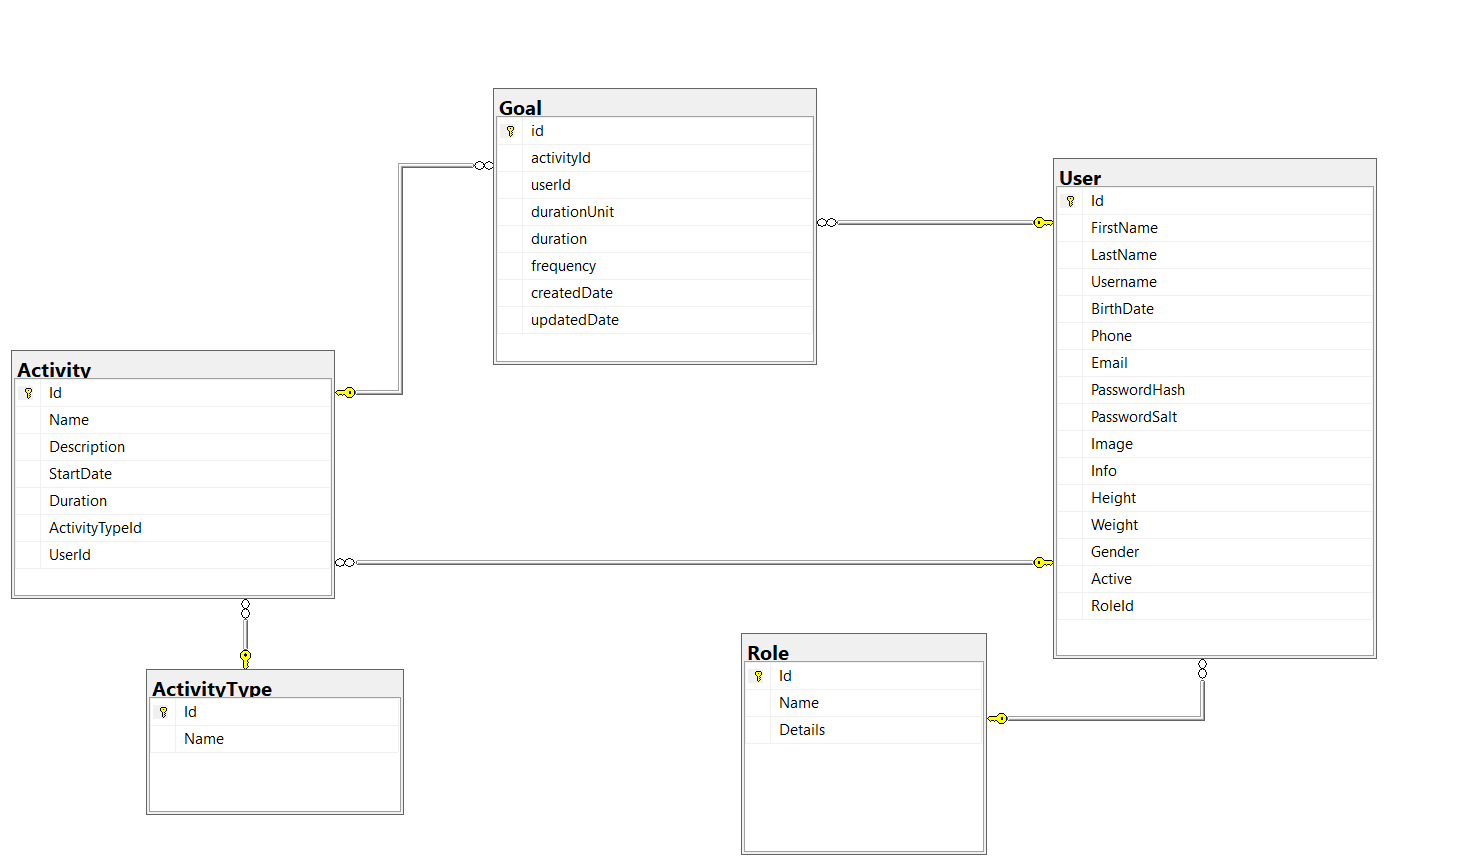
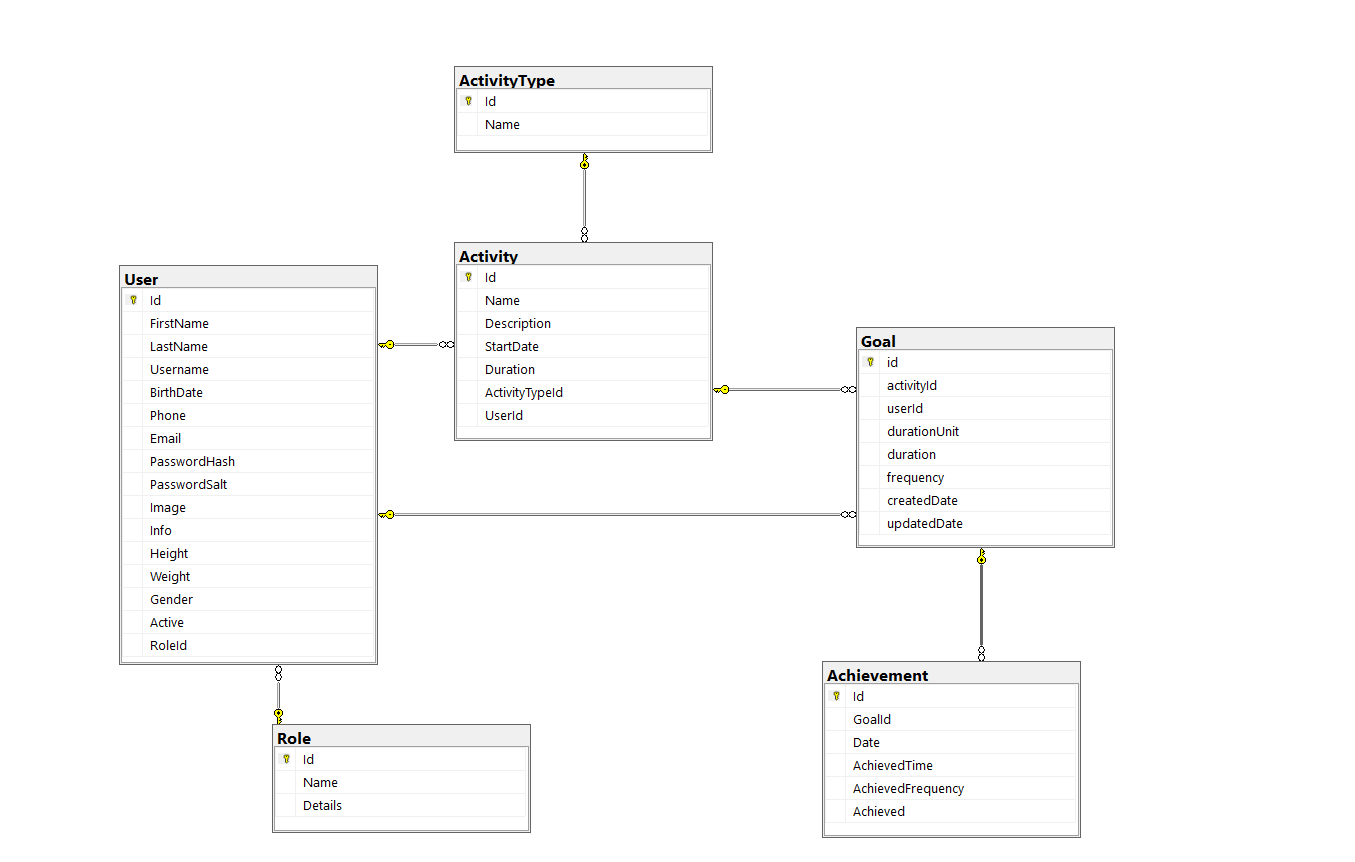
Added screenshots, achievments crud operation/base crud fix

diff --git a/FitTrackApp.UI/src/app/app-routing.module.ts b/FitTrackApp.UI/src/app/app-routing.module.ts
@@ -10,6 +10,7 @@ import { LoginPageComponent } from './login-page/login-page.component';
 import { GoalAddPageComponent } from './goal-add-page/goal-add-page.component';
 import { ActivityEditPageComponent } from './activity-edit-page/activity-edit-page.component';
 import { GoalEditPageComponent } from './goal-edit-page/goal-edit-page.component';
+import { AchievmentTablePageComponent } from './achievment-table-page/achievment-table-page.component';
 
 const routes: Routes = [
   { path: '', redirectTo: '/home', pathMatch: 'full' },
@@ -22,6 +23,7 @@ const routes: Routes = [
   { path: 'goals', component: GoalTablePageComponent },
   { path: 'goal-add', component: GoalAddPageComponent },
   { path: 'goal-edit/:id', component: GoalEditPageComponent },
+  { path: 'achievments', component: AchievmentTablePageComponent },
   { path: 'logout', component: HomePageComponent },
   { path: 'login', component: LoginPageComponent },
 

diff --git a/FitTrackApp.UI/src/app/app.module.ts b/FitTrackApp.UI/src/app/app.module.ts
@@ -18,6 +18,7 @@ import { GoalAddPageComponent } from './goal-add-page/goal-add-page.component';
 import { ActivityEditPageComponent } from './activity-edit-page/activity-edit-page.component';
 import { GoalEditPageComponent } from './goal-edit-page/goal-edit-page.component';
 import { PopupMessageComponent } from './popup-message/popup-message.component';
+import { AchievmentTablePageComponent } from './achievment-table-page/achievment-table-page.component';
 
 @NgModule({
   declarations: [
@@ -32,7 +33,8 @@ import { PopupMessageComponent } from './popup-message/popup-message.component';
     LoginPageComponent,
     ActivityEditPageComponent,
     GoalEditPageComponent,
-    PopupMessageComponent    
+    PopupMessageComponent,
+    AchievmentTablePageComponent    
   ],
   imports: [
     BrowserModule,

diff --git a/FitTrackApp.UI/src/app/achievment-table-page/achievment-table-page.component.spec.ts b/FitTrackApp.UI/src/app/achievment-table-page/achievment-table-page.component.spec.ts
@@ -1,0 +1,23 @@
+import { ComponentFixture, TestBed } from '@angular/core/testing';
+
+import { AchievmentTablePageComponent } from './achievment-table-page.component';
+
+describe('AchievmentTablePageComponent', () => {
+  let component: AchievmentTablePageComponent;
+  let fixture: ComponentFixture<AchievmentTablePageComponent>;
+
+  beforeEach(async () => {
+    await TestBed.configureTestingModule({
+      declarations: [AchievmentTablePageComponent]
+    })
+    .compileComponents();
+    
+    fixture = TestBed.createComponent(AchievmentTablePageComponent);
+    component = fixture.componentInstance;
+    fixture.detectChanges();
+  });
+
+  it('should create', () => {
+    expect(component).toBeTruthy();
+  });
+});

diff --git a/FitTrackApp.UI/src/app/navigation-header/navigation-header.component.html b/FitTrackApp.UI/src/app/navigation-header/navigation-header.component.html
@@ -7,7 +7,7 @@
             <ul>
                 <span class="left-align">
                     <li><a href="#" routerLink="/" class="menu-item">Home</a></li>
-                    <ng-container *ngIf="!authService.isLoggedIn()">
+                    <ng-container *ngIf="authService.isLoggedIn()">
                         <li><a routerLink="/login" routerLinkActive="active">Login</a></li>
                     </ng-container>
                     <ng-container *ngIf="!authService.isLoggedIn()">

diff --git a/FitTrackApp.UI/src/app/goal-table-page/goal-table-page.component.css b/FitTrackApp.UI/src/app/goal-table-page/goal-table-page.component.css
@@ -6,11 +6,23 @@
   max-width: 1200px;
   margin: auto;
   margin-top: 20px;
+  position: relative;
 }
 
 h4 {
   text-align: center;
   margin-bottom: 20px;
+}
+
+.achievments-button {
+  background-color: #474343; 
+  border-color: #100f0f;
+  color:white;
+  padding: 0.25em 0.5em;
+  border-radius: 5px;
+  cursor: pointer;
+  font-size: 0.9em;
+  bottom: 3px; 
 }
 
 .btn-primary {

diff --git a/FitTrackApp.UI/src/app/achievment-table-page/achievment-table-page.component.ts b/FitTrackApp.UI/src/app/achievment-table-page/achievment-table-page.component.ts
@@ -1,0 +1,10 @@
+import { Component } from '@angular/core';
+
+@Component({
+  selector: 'app-achievment-table-page',
+  templateUrl: './achievment-table-page.component.html',
+  styleUrl: './achievment-table-page.component.css'
+})
+export class AchievmentTablePageComponent {
+
+}

diff --git a/FitTrackApp.UI/src/app/goal-table-page/goal-table-page.component.ts b/FitTrackApp.UI/src/app/goal-table-page/goal-table-page.component.ts
@@ -65,4 +65,8 @@ export class GoalTablePageComponent implements OnInit {
       );
     }
   }
+
+  viewAchievments(): void {
+    this.router.navigate(['/achievments']);
+  }
 }

diff --git a/FitTrackApp.UI/src/app/goal-table-page/goal-table-page.component.html b/FitTrackApp.UI/src/app/goal-table-page/goal-table-page.component.html
@@ -27,5 +27,6 @@
         </tr>
       </tbody>
     </table>
+    <button class="achievments-button" (click)="viewAchievments()">View achievments</button>
   </div>
   

diff --git a/FitTrackApp.UI/src/app/models/achievment.ts b/FitTrackApp.UI/src/app/models/achievment.ts
@@ -1,0 +1,5 @@
+
+export interface Achievment {
+    id: number;
+
+  }

diff --git a/FitTrackApp.UI/src/app/achievment-table-page/achievment-table-page.component.html b/FitTrackApp.UI/src/app/achievment-table-page/achievment-table-page.component.html
@@ -1,0 +1,1 @@
+<p>achievment-table-page works!</p>

diff --git a/FitTrackApp.WebAPI/Services/AchievmentService.cs b/FitTrackApp.WebAPI/Services/AchievmentService.cs
@@ -1,0 +1,43 @@
+using AutoMapper;
+using FitTrackApp.WebAPI.Database;
+using FitTrackApp.WebAPI.DTOs;
+using FitTrackApp.WebAPI.Interfaces;
+using Microsoft.VisualStudio.Services.Users;
+
+namespace FitTrackApp.WebAPI.Services
+{
+    public class AchievmentService : IAchievmentService
+    {
+        private readonly FitTrackContext _context;
+        private readonly IMapper _mapper;
+
+        public AchievmentService(FitTrackContext context, IMapper mapper)
+        {
+            _context = context;
+            _mapper = mapper;
+        }
+        public List<Models.Achievment> GetAll()
+        {
+            var query = _context.Achievements.AsQueryable();
+            var list = query.ToList();
+            return _mapper.Map<List<Models.Achievment>>(list);
+        }
+
+        public Models.Achievment Insert(AchievmentUpsertDTO request)
+        {
+              Achievement entity = _mapper.Map<Achievement>(request);
+
+               _context.Achievements.AddAsync(entity);
+               _context.SaveChangesAsync();
+               return _mapper.Map<Models.Achievment>(entity);
+        }
+        public Models.Achievment Update(int id, AchievmentUpsertDTO request)
+        {
+            var entity = _context.Achievements.Find(id);
+            _mapper.Map(request, entity);
+
+            _context.SaveChanges();
+            return _mapper.Map<Models.Achievment>(entity);
+        }
+    }
+}

diff --git a/FitTrackApp.WebAPI/Database/FitTrackContext.cs b/FitTrackApp.WebAPI/Database/FitTrackContext.cs
@@ -16,6 +16,7 @@ namespace FitTrackApp.WebAPI.Database
         {
         }
 
+        public virtual DbSet<Achievement> Achievements { get; set; } = null!;
         public virtual DbSet<Activity> Activities { get; set; } = null!;
         public virtual DbSet<ActivityType> ActivityTypes { get; set; } = null!;
         public virtual DbSet<Goal> Goals { get; set; } = null!;
@@ -33,6 +34,18 @@ namespace FitTrackApp.WebAPI.Database
 
         protected override void OnModelCreating(ModelBuilder modelBuilder)
         {
+            modelBuilder.Entity<Achievement>(entity =>
+            {
+                entity.ToTable("Achievement");
+
+                entity.Property(e => e.Date).HasColumnType("date");
+
+                entity.HasOne(d => d.Goal)
+                    .WithMany(p => p.Achievements)
+                    .HasForeignKey(d => d.GoalId)
+                    .HasConstraintName("fk_goal_achievment");
+            });
+
             modelBuilder.Entity<Activity>(entity =>
             {
                 entity.ToTable("Activity");
